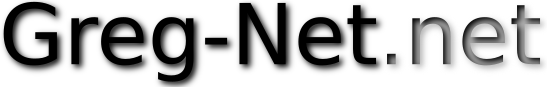
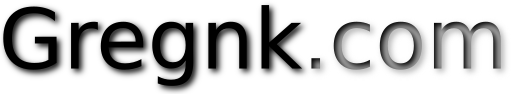
changed domain from greg-net.net to gregnk.com

diff --git a/src/render/contact/index.html b/src/render/contact/index.html
@@ -1,7 +1,7 @@
 ---
-title: "Greg-net.net - Contact"
+title: "gregnk.com - Contact"
 layout: "default"
 isPage: true
 ---
 <h1>Contact</h1>
-If you need to contact me my email is <a href="mailto:&#103;&#114;&#101;&#103;&#95;&#110;&#107;&#64;&#103;&#114;&#101;&#103;&#45;&#110;&#101;&#116;&#46;&#110;&#101;&#116;">&#103;&#114;&#101;&#103;&#95;&#110;&#107;&#64;&#103;&#114;&#101;&#103;&#45;&#110;&#101;&#116;&#46;&#110;&#101;&#116;</a>. Feel free to send me suggestions and feedback.
+If you need to contact me my email is <a href="mailto:&#103;&#114;&#101;&#103;&#64;&#103;&#114;&#101;&#103;&#110;&#107;&#46;&#99;&#111;&#109;">&#103;&#114;&#101;&#103;&#64;&#103;&#114;&#101;&#103;&#110;&#107;&#46;&#99;&#111;&#109;</a>. Feel free to send me suggestions and feedback.

diff --git a/src/render/soft/index.html b/src/render/soft/index.html
@@ -1,6 +1,6 @@
 ---
-title: "Greg-net.net - Software"
-description: "Software on greg-net.net"
+title: "gregnk.com - Software"
+description: "Software on gregnk.com"
 layout: "default"
 isPage: true
 ---

diff --git a/src/render/blog/2016-10-09_new-name.html.md b/src/render/blog/2016-10-09_new-name.html.md
@@ -1,0 +1,9 @@
+---
+layout: post
+date: 2016-10-09
+title: New Name
+isPage: true
+---
+Its been a while. Nobody see this site so nobody will care. Anyways, I have changed the website domain from **greg-net.net** to **gregnk.com**. It sounds much, much better.
+
+I should work on some software now, this site needs to be put to good use.
